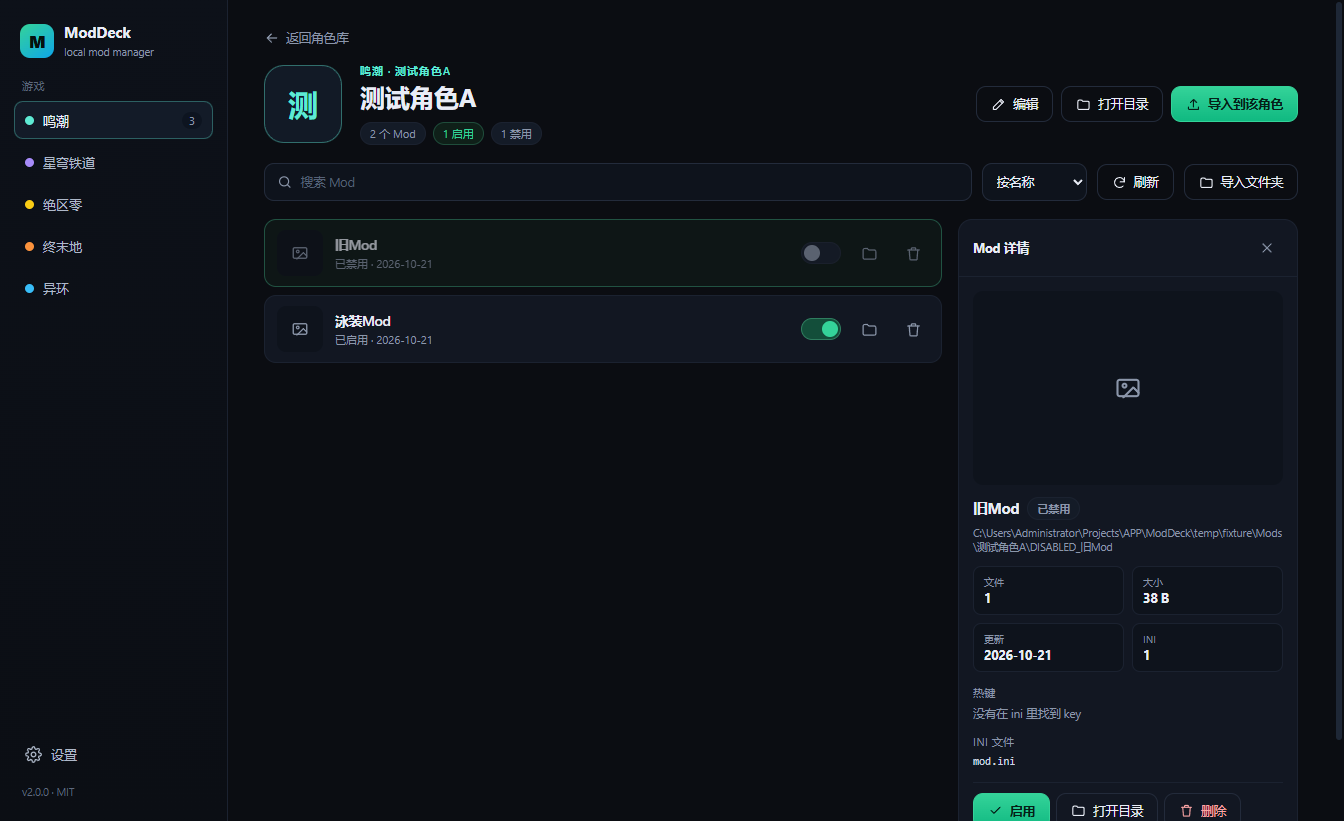
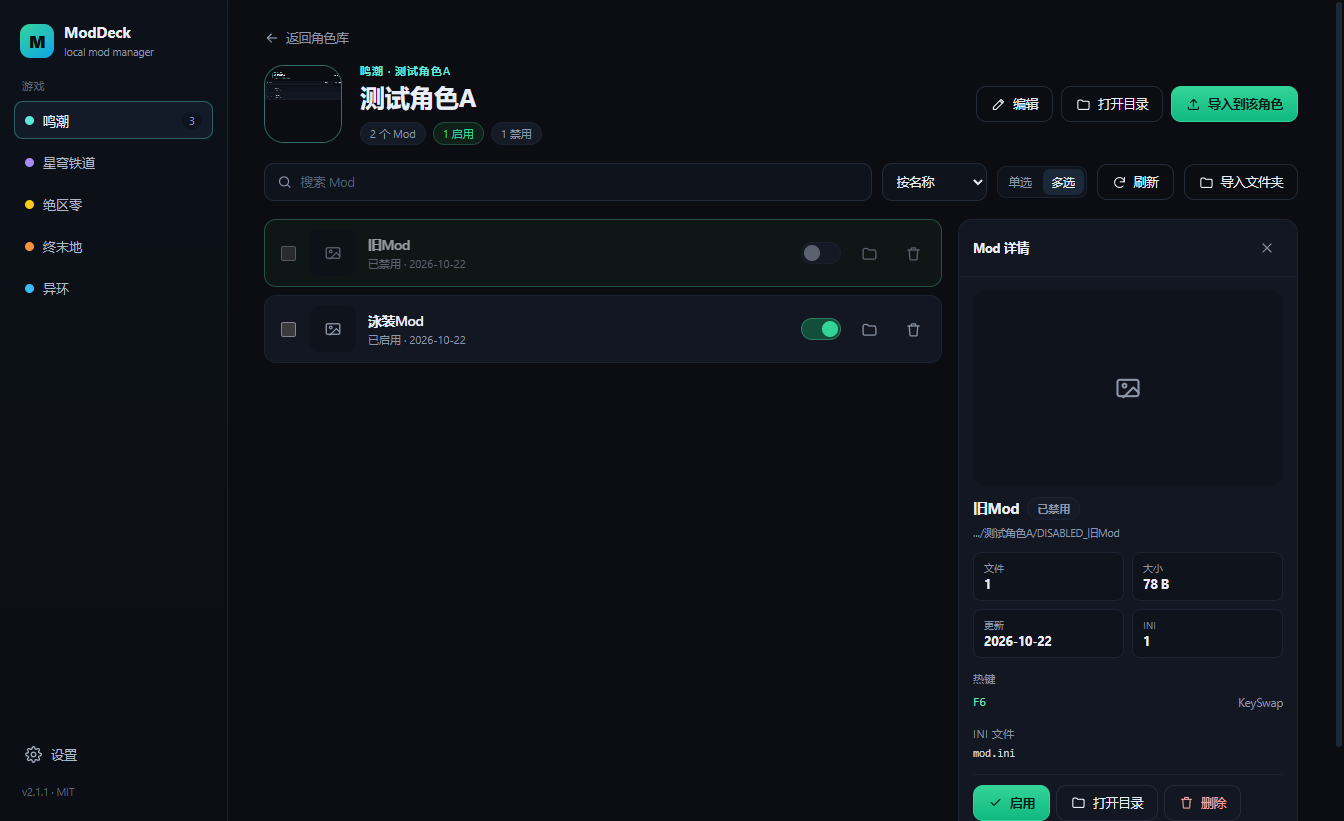
chore: sanitize local paths in docs, settings and packaging

diff --git a/src/renderer/src/views/LibraryView.tsx b/src/renderer/src/views/LibraryView.tsx
@@ -3,6 +3,11 @@ import type { CharacterInfo, GameDef, GameSnapshot, UiSettings } from '../../../
 import { CharacterCard } from '../components/CharacterCard'
 import { Icon } from '../components/Icon'
 
+function shortPath(value: string): string {
+  const parts = value.split(/[\\/]/).filter(Boolean)
+  return parts.length <= 2 ? value : `.../${parts.slice(-2).join('/')}`
+}
+
 export function LibraryView({
   game,
   snapshot,
@@ -129,7 +134,7 @@ export function LibraryView({
           <h2>{snapshot.settings.modsPath ? 'Mods 目录不存在' : '还没有配置 Mods 目录'}</h2>
           <p className="muted">
             {snapshot.settings.modsPath
-              ? snapshot.settings.modsPath
+              ? shortPath(snapshot.settings.modsPath)
               : `选择 ${game.name} 的 Mods 文件夹后，ModDeck 会自动扫描角色和 Mod。`}
           </p>
           <div className="actions center">
@@ -176,7 +181,7 @@ export function LibraryView({
               onClick={onOpenSettings}
             >
               <Icon name="folder" size={14} />
-              {snapshot.settings.modsPath}
+              {shortPath(snapshot.settings.modsPath)}
             </button>
           </div>
 

diff --git a/src/renderer/src/views/SettingsView.tsx b/src/renderer/src/views/SettingsView.tsx
@@ -352,7 +352,7 @@ export function SettingsView({
                       <input
                         className="input"
                         value={value?.modsPath ?? ''}
-                        placeholder="例如 D:\\Game-D\\XXMI\\XXMI\\EFMI"
+                        placeholder="例如 .../XXMI/XXMI/EFMI"
                         onChange={(event) =>
                           updateGame(game.id, { modsPath: event.target.value })
                         }

diff --git a/src/renderer/src/components/ModDetailsPanel.tsx b/src/renderer/src/components/ModDetailsPanel.tsx
@@ -60,8 +60,8 @@ export function ModDetailsPanel({
               {details.enabled ? '已启用' : '已禁用'}
             </span>
           </div>
-          <div className="detail-path" title={details.path}>
-            {details.path}
+          <div className="detail-path" title={details.folderName}>
+            .../{details.characterFolder}/{details.folderName}
           </div>
 
           <div className="detail-stats">

diff --git a/CHANGELOG.md b/CHANGELOG.md
@@ -40,7 +40,7 @@ V2.1 的第一个发布版本，汇总 2.0.1 / 2.0.2 的能力：
 
 
 - 角色页和快捷窗口去掉单选/多选后面的说明文字。
-- 支持直接选择 EFMI 根目录（例如 `D:\Game-D\XXMI\XXMI\EFMI`），保存时自动落到
+- 支持直接选择 EFMI 根目录（例如 `.../XXMI/XXMI/EFMI`），保存时自动落到
   对应的 `Mods` 子目录；选择 `Mods` 目录仍然兼容。
 - 热键发送支持更多 3DMigoto 写法：
   - `no_modifiers /`、`.`、`,`、`;`、`[`、`]`、`-`、`=`、`\`、`` ` `` 等符号

diff --git a/README.md b/README.md
@@ -75,7 +75,7 @@ ModDeck 只管理 `Mods` 目录：扫描角色和 Mod、启停、导入、排序
 
 ## EFMI 集成
 
-- 设置里可以直接选择 EFMI 根目录（如 `D:\Game-D\XXMI\XXMI\EFMI`），ModDeck 会自动落到 `Mods`
+- 设置里可以直接选择 EFMI 根目录（如 `.../XXMI/XXMI/EFMI`），ModDeck 会自动落到 `Mods`
 - 启动时检查 `d3dx.ini` 是否包含 `exclude_recursive = DISABLED*`
 - 缺失时页面顶部提示，可以在设置里关闭检查或设置“不再提示”
 - 快捷窗口提供“重载 F10”按钮
